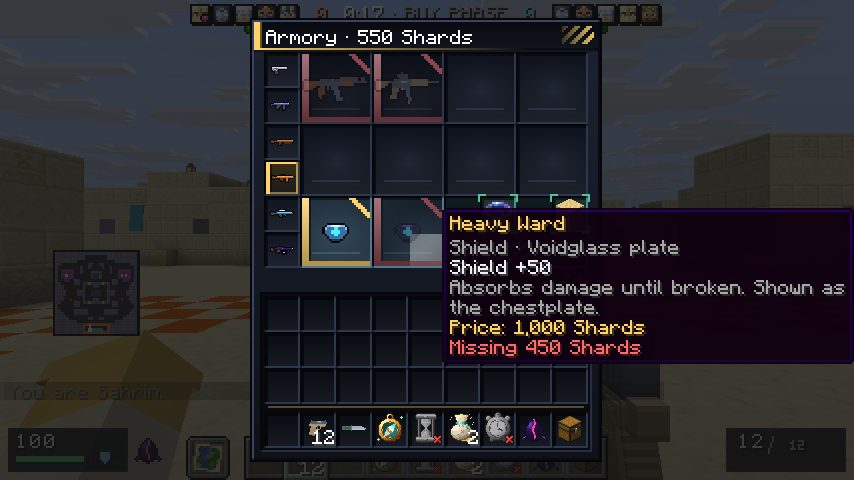
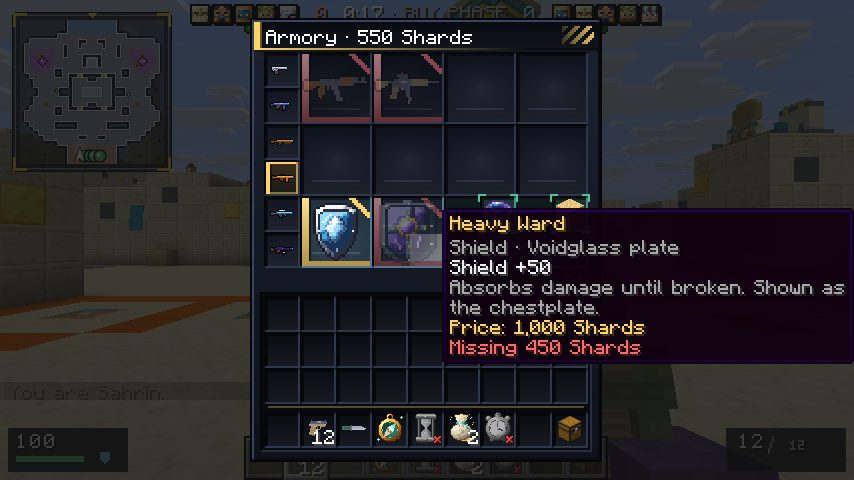
Site: retake the ValoBlock and Werewolf captures on the merged dev
The ValoBlock captures now show the minimap in the HUD, the two-handed guns and the new map scenery (Hourfall,
Rootvault, Stormbreak); the Werewolf ones show the lit sky hamlet (a HUD-free view of the square, the wolves'
night in a real game). Captions updated in English, French and German.

diff --git a/site/assets/i18n.js b/site/assets/i18n.js
@@ -45,11 +45,11 @@ window.I18N = {
     "modes.lead": "Four games share one world and one locker: what you earn in one, you wear in all of them.",
     "mode.ww.name": "Werewolf",
     "mode.ww.body": "A village floats above the clouds. At night the wolves choose, at dawn everyone votes. Role cards explain every power, and practice games against bots let you learn before you play.",
-    "mode.ww.cap": "Night on the sky village: the Seer wakes to read one player's secret.",
-    "mode.ww.cap2": "Day: the village debates and votes. Left-click a player to accuse them.",
+    "mode.ww.cap": "Night on the sky hamlet: the wolves wake up and choose their prey.",
+    "mode.ww.cap2": "The hamlet where every game is played, around its belfry, its mill and the blood moon.",
     "mode.vb.name": "ValoBlock",
     "mode.vb.body": "A tactical team shooter with eight agents, 3D weapons and a vote for the next map.",
-    "mode.vb.cap1": "A round on Hourfall: the combat HUD, the agent's abilities and a 3D sidearm.",
+    "mode.vb.cap1": "A round on Hourfall: the minimap, the combat HUD and a 3D sidearm held in both hands.",
     "mode.vb.cap2": "Hourfall from above during the buy phase.",
     "mode.vb.cap3": "The armory: shields and weapons bought with Shards before each round.",
     "mode.cr.name": "Creative",
@@ -196,11 +196,11 @@ window.I18N = {
     "modes.lead": "Quatre jeux partagent un monde et un casier : ce que tu gagnes dans l'un, tu le portes dans tous.",
     "mode.ww.name": "Loup-garou",
     "mode.ww.body": "Un village flotte au-dessus des nuages. La nuit, les loups choisissent ; à l'aube, tout le monde vote. Les cartes de rôle expliquent chaque pouvoir, et des parties d'entraînement contre des bots permettent d'apprendre avant de jouer.",
-    "mode.ww.cap": "La nuit sur le village du ciel : la Voyante s'éveille pour percer le secret d'un joueur.",
-    "mode.ww.cap2": "Le jour : le village débat et vote. Clic gauche sur un joueur pour l'accuser.",
+    "mode.ww.cap": "La nuit sur le hameau du ciel : les loups se réveillent et choisissent leur proie.",
+    "mode.ww.cap2": "Le hameau où se joue chaque partie, autour de son beffroi, de son moulin et de la lune de sang.",
     "mode.vb.name": "ValoBlock",
     "mode.vb.body": "Un jeu de tir tactique en équipe, avec huit agents, des armes en 3D et un vote pour la carte suivante.",
-    "mode.vb.cap1": "Une manche sur Hourfall : le HUD de combat, les capacités de l'agent et une arme de poing en 3D.",
+    "mode.vb.cap1": "Une manche sur Hourfall : la mini-carte, le HUD de combat et une arme de poing en 3D tenue à deux mains.",
     "mode.vb.cap2": "Hourfall vu d'en haut pendant la phase d'achat.",
     "mode.vb.cap3": "L'armurerie : boucliers et armes achetés avec des Shards avant chaque manche.",
     "mode.cr.name": "Créatif",
@@ -347,11 +347,11 @@ window.I18N = {
     "modes.lead": "Vier Spiele teilen eine Welt und einen Spind: Was du in einem verdienst, trägst du in allen.",
     "mode.ww.name": "Werwolf",
     "mode.ww.body": "Ein Dorf schwebt über den Wolken. Nachts wählen die Wölfe, im Morgengrauen stimmen alle ab. Rollenkarten erklären jede Fähigkeit, und Übungsrunden gegen Bots helfen dir, die Rollen vor dem Spiel zu lernen.",
-    "mode.ww.cap": "Nacht über dem Himmelsdorf: Die Seherin erwacht und erfährt das Geheimnis eines Spielers.",
-    "mode.ww.cap2": "Tag: Das Dorf berät und stimmt ab. Linksklick auf einen Spieler, um ihn anzuklagen.",
+    "mode.ww.cap": "Nacht über dem Himmelsweiler: Die Wölfe erwachen und wählen ihre Beute.",
+    "mode.ww.cap2": "Der Weiler, in dem jede Partie gespielt wird, um seinen Glockenturm, seine Mühle und den Blutmond.",
     "mode.vb.name": "ValoBlock",
     "mode.vb.body": "Ein taktischer Team-Shooter mit acht Agenten, 3D-Waffen und einer Abstimmung über die nächste Karte.",
-    "mode.vb.cap1": "Eine Runde auf Hourfall: das Kampf-HUD, die Fähigkeiten des Agenten und eine 3D-Seitenwaffe.",
+    "mode.vb.cap1": "Eine Runde auf Hourfall: die Minikarte, das Kampf-HUD und eine 3D-Seitenwaffe in beiden Händen.",
     "mode.vb.cap2": "Hourfall von oben während der Kaufphase.",
     "mode.vb.cap3": "Die Waffenkammer: Schilde und Waffen, vor jeder Runde mit Shards gekauft.",
     "mode.cr.name": "Kreativ",

diff --git a/site/assets/i18n-valoblock.js b/site/assets/i18n-valoblock.js
@@ -14,7 +14,7 @@
     "vbp.hero.lead": "Five against five. One team carries the Rift Seed, the other seals it. Eight agents from the Realms of Aethelgard, real 3D weapons, and three maps that each change how you play.",
     "vbp.hero.cta": "How a round works",
     "vbp.hero.note": "Free on Java Edition 26.3. The server sends the ValoBlock pack when you join a match and removes it when you leave.",
-    "vbp.hero.cap": "A round on Hourfall: the combat HUD, abilities and a 3D sidearm.",
+    "vbp.hero.cap": "A round on Hourfall: the minimap, the combat HUD and a sidearm held in both hands, under the Hourglass tower.",
     "vbp.round.title": "One round, three phases",
     "vbp.round.lead": "Seedbearers attack, Sealers defend. First team to 7 rounds wins; sides swap after round 6.",
     "vbp.round.s1t": "Pick an agent",
@@ -157,7 +157,7 @@
     "vbp.hero.lead": "Cinq contre cinq. Une équipe porte la Rift Seed, l'autre la scelle. Huit agents venus des Royaumes d'Aethelgard, de vraies armes en 3D et trois cartes qui changent chacune ta façon de jouer.",
     "vbp.hero.cta": "Comment se joue une manche",
     "vbp.hero.note": "Gratuit sur Java Edition 26.3. Le serveur envoie le pack ValoBlock quand tu rejoins un match et le retire quand tu pars.",
-    "vbp.hero.cap": "Une manche sur Hourfall : le HUD de combat, les capacités et une arme de poing en 3D.",
+    "vbp.hero.cap": "Une manche sur Hourfall : la mini-carte, le HUD de combat et une arme de poing tenue à deux mains, sous la tour du Sablier.",
     "vbp.round.title": "Une manche, trois phases",
     "vbp.round.lead": "Les Seedbearers attaquent, les Sealers défendent. La première équipe à 7 manches gagne ; les camps s'inversent après la 6e manche.",
     "vbp.round.s1t": "Choisis un agent",
@@ -300,7 +300,7 @@
     "vbp.hero.lead": "Fünf gegen fünf. Ein Team trägt den Rift Seed, das andere versiegelt ihn. Acht Agenten aus den Reichen von Aethelgard, echte 3D-Waffen und drei Karten, die jeweils dein Spiel verändern.",
     "vbp.hero.cta": "So läuft eine Runde",
     "vbp.hero.note": "Kostenlos auf Java Edition 26.3. Der Server schickt das ValoBlock-Paket, wenn du einem Match beitrittst, und entfernt es, wenn du gehst.",
-    "vbp.hero.cap": "Eine Runde auf Hourfall: Kampf-HUD, Fähigkeiten und eine 3D-Seitenwaffe.",
+    "vbp.hero.cap": "Eine Runde auf Hourfall: die Minikarte, das Kampf-HUD und eine Seitenwaffe in beiden Händen, unter dem Sanduhrturm.",
     "vbp.round.title": "Eine Runde, drei Phasen",
     "vbp.round.lead": "Die Seedbearers greifen an, die Sealers verteidigen. Wer zuerst 7 Runden gewinnt, siegt; nach Runde 6 werden die Seiten getauscht.",
     "vbp.round.s1t": "Wähle einen Agenten",

diff --git a/site/valoblock.html b/site/valoblock.html
@@ -34,7 +34,7 @@
           <p class="il-row"><a class="btn il-ghost" href="#round" data-i18n="vbp.hero.cta">How a round works</a></p>
           <p class="il-note" data-i18n="vbp.hero.note">Free on Java Edition 26.3. The server sends the ValoBlock pack when you join a match and removes it when you leave.</p>
         </div>
-        <figure class="shot tilt"><img src="assets/img/vb/play-combat.jpg" width="854" height="480" loading="eager" decoding="async" alt="A round on Hourfall: the combat HUD, abilities and a 3D sidearm." data-i18n-alt="vbp.hero.cap"><figcaption data-i18n="vbp.hero.cap">A round on Hourfall: the combat HUD, abilities and a 3D sidearm.</figcaption></figure>
+        <figure class="shot tilt"><img src="assets/img/vb/play-combat.jpg" width="854" height="480" loading="eager" decoding="async" alt="A round on Hourfall: the minimap, the combat HUD and a sidearm held in both hands, under the Hourglass tower." data-i18n-alt="vbp.hero.cap"><figcaption data-i18n="vbp.hero.cap">A round on Hourfall: the minimap, the combat HUD and a sidearm held in both hands, under the Hourglass tower.</figcaption></figure>
       </div>
     </section>
 

diff --git a/site/index.html b/site/index.html
@@ -86,11 +86,11 @@
         </ul>
         <div class="ww-shots">
           <figure class="ww-shot">
-            <img src="assets/img/ww-seer.jpg" width="854" height="345" loading="lazy" alt="" data-i18n-alt="mode.ww.cap">
+            <img src="assets/img/ww-wolves.jpg" width="854" height="345" loading="lazy" alt="" data-i18n-alt="mode.ww.cap">
             <figcaption data-i18n="mode.ww.cap"></figcaption>
           </figure>
           <figure class="ww-shot">
-            <img src="assets/img/ww-day.jpg" width="854" height="345" loading="lazy" alt="" data-i18n-alt="mode.ww.cap2">
+            <img src="assets/img/ww-hamlet.jpg" width="854" height="345" loading="lazy" alt="" data-i18n-alt="mode.ww.cap2">
             <figcaption data-i18n="mode.ww.cap2"></figcaption>
           </figure>
         </div>

diff --git a/site/README.md b/site/README.md
@@ -6,7 +6,8 @@ Static showcase and shop preview: plain HTML, CSS and JS, no build step, nothing
   ValoBlock armory, Creative and Survival, a teaser for the Isles, "never for sale"), `isles.html` (the whole Skyblock:
   Aethelgard, the island start, Hub and Quai des Huit, the eight Realms, Bastions, the Guardians and their effects, the Raid
   of the Devourer, the Astral Interiority, Hell Gao as a teaser, vocations, runes, wings, armour, Catacombs; styles in
-  `assets/isles.css`), `shop.html` ("The Locker":
+  `assets/isles.css`), `valoblock.html` (a round, the eight agents with their portraits, the Armory and Shards,
+  the three maps with their tactical plans; `assets/valoblock.css`, text in `assets/i18n-valoblock.js`), `shop.html` ("The Locker":
   preview, two separate shops and carts, never for sale, box odds, parents), `parents.html`, `legal.html`.
   The design comes from the Design canvas "Vampyuyu, refonte de la vitrine".
 - Offers and prices: `assets/shop-data.js` only (euro cents, `status: "soon"` = announced, not sold,
